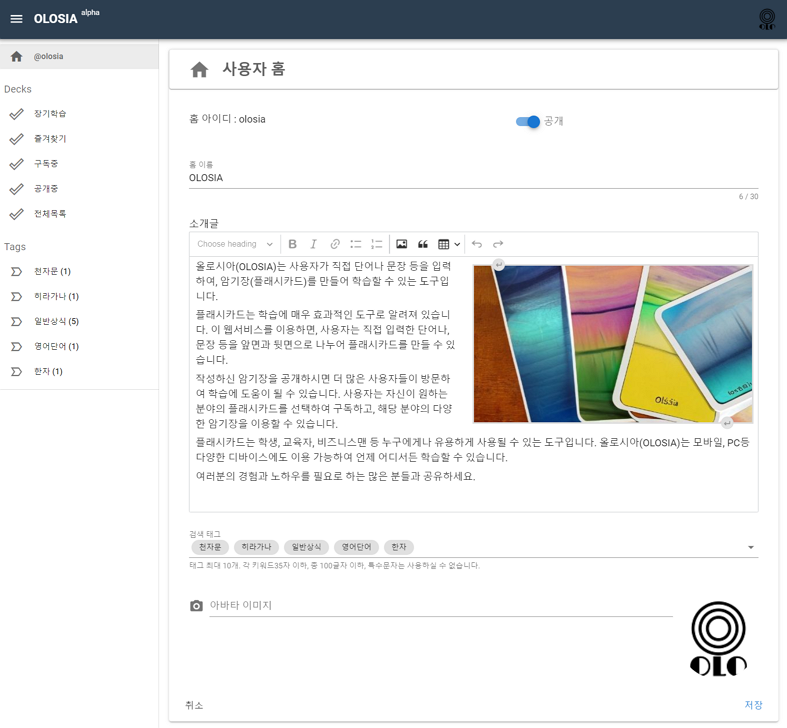
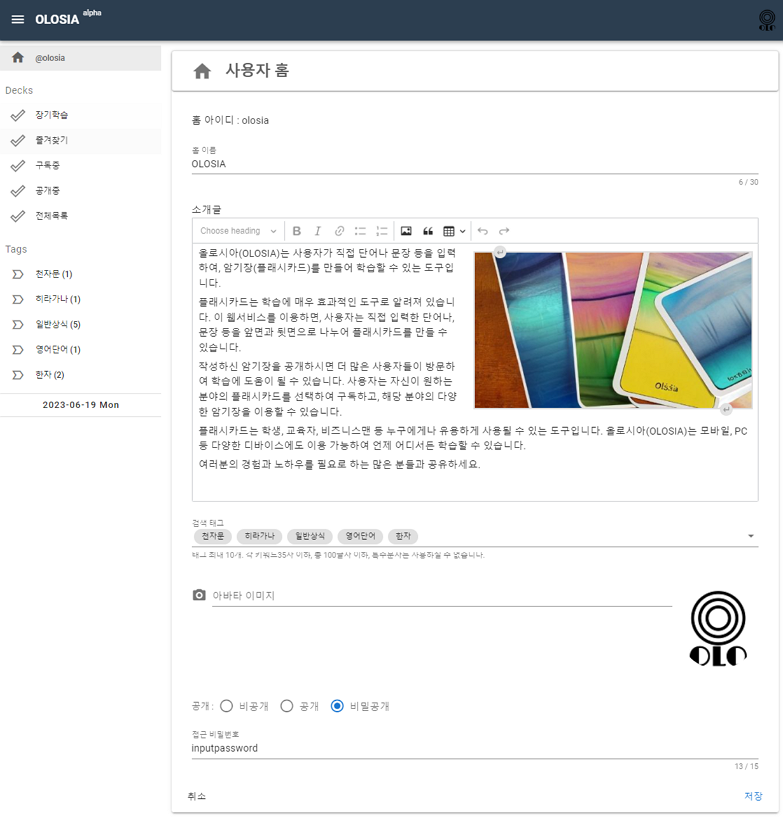
비밀공개 설명 추가

diff --git a/docs/user-home/home-edit.md b/docs/user-home/home-edit.md
@@ -14,6 +14,8 @@ nav_order: 2
 
 홈을 공개로 설정하실 경우, 다른 사용자들에게 노출됩니다.
 
+비밀공개로 설정하실 경우, 접근 비밀번호를 입력한 사용자들에게만 접근 가능합니다.
+
 작성하신 태그는 메뉴로도 사용되며, 암기장 작성시 등록하신 태그를 선택하게 됩니다.
 
 홈 태그는 최대 10개 까지 설정 가능합니다.

diff --git a/CHANGELOG.md b/CHANGELOG.md
@@ -7,6 +7,10 @@ layout: default
 
 변경 이력을 남겨봅니다.
 
+## 2023년 6월 19일, 월요일 (GMT+9)
+
+- 홈 비밀공개 기능 추가
+
 ## 2023년 4월 2일, 일요일 (GMT+9)
 
 - 암기장내 단원구분 기능 추가
